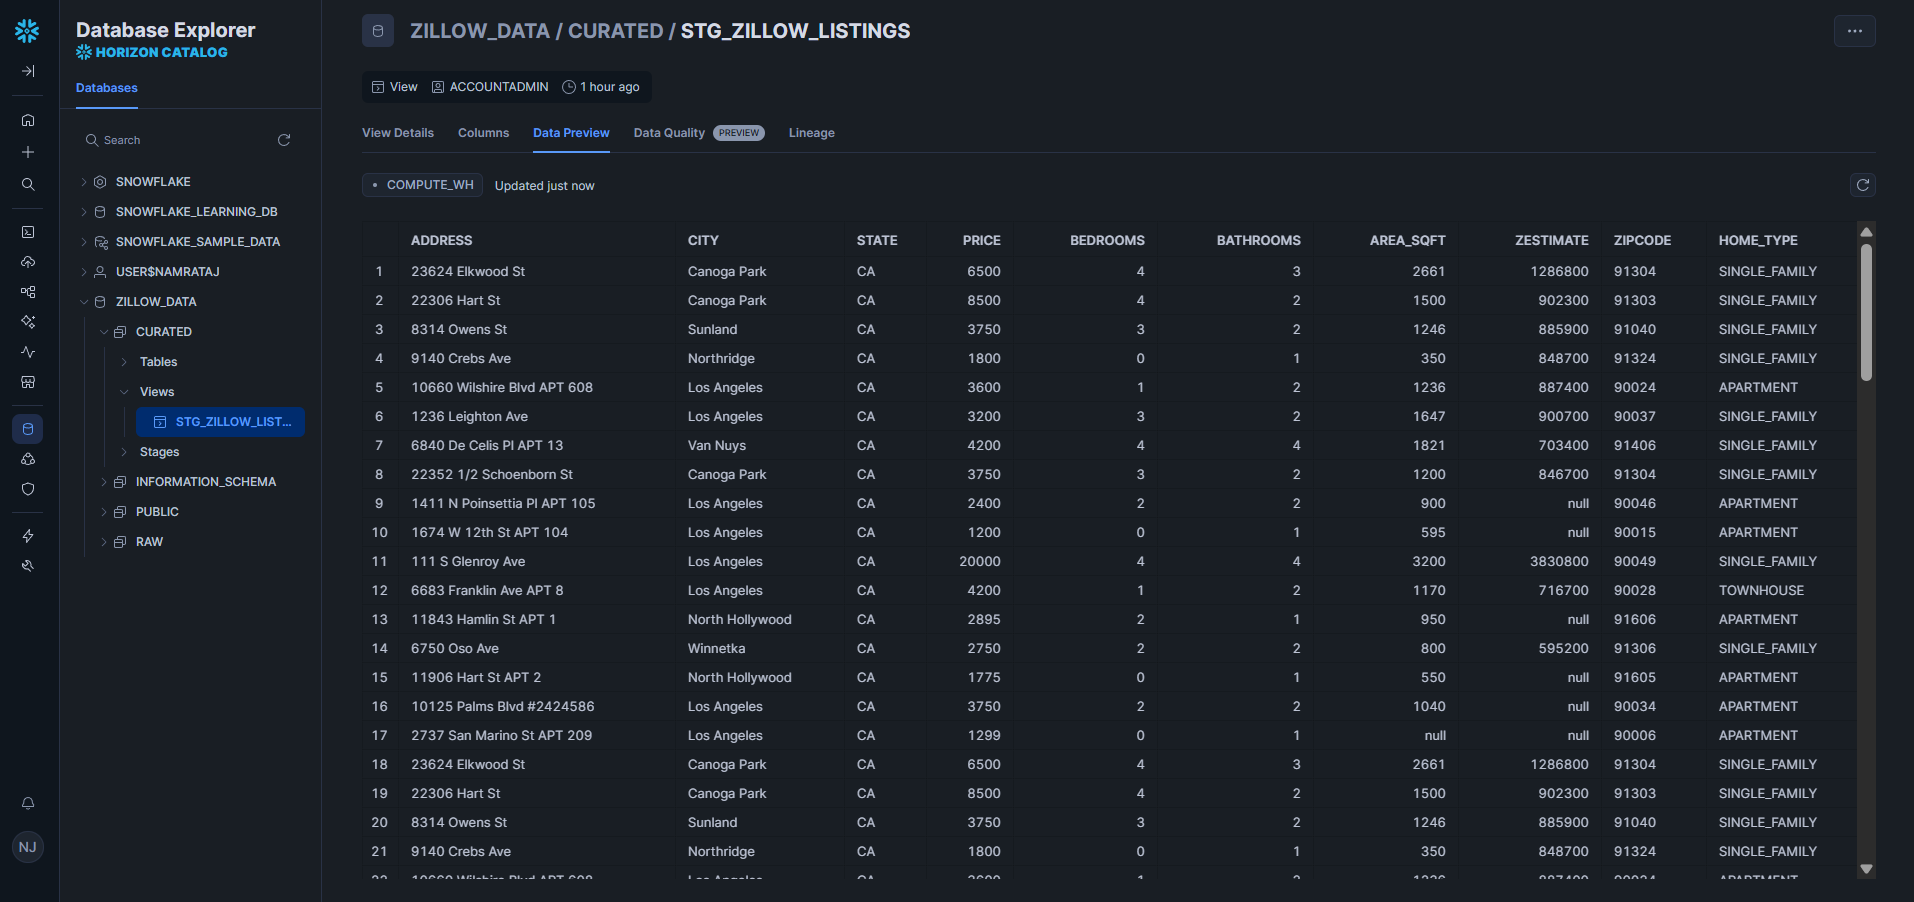
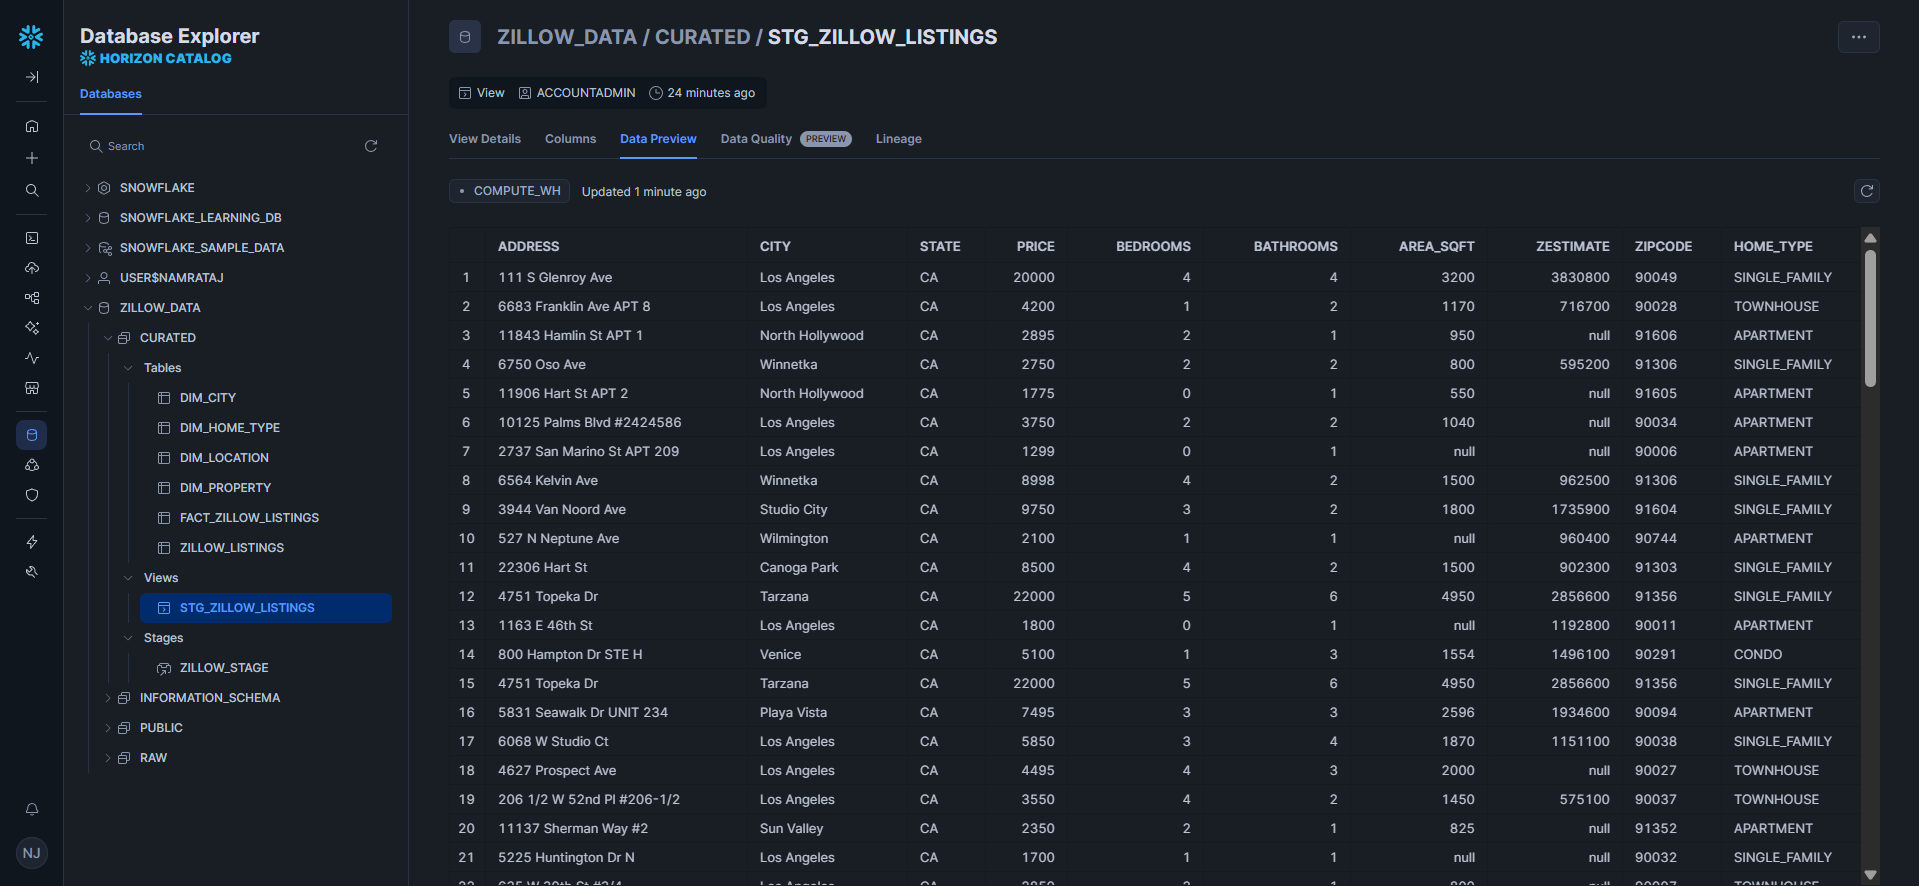
Readme updated

diff --git a/README.md b/README.md
@@ -54,20 +54,22 @@ This project builds a production-grade **data engineering pipeline** that ingest
 |----------------------|-----------------|
 | ![Glue Job Success](screenshots/glue_job_success.png) | ![CloudWatch Logs](screenshots/cloudwatch_log_output.png) |
 
-| AWS Glue Job Success | CloudWatch Logs |
+| AWS Glue Job Success | Step Function Success |
 |----------------------|-----------------|
 | ![CloudWatch Exceution log](screenshots/cloudwatch_glue_logs.png) | ![Step Function Success](screenshots/step_function_success.png) |
-
-# 📸 Results
 
 | Snowflake Curated View | dbt test Success |
 |-------------------------|-----------------|
 | ![Snowflake Curated View](screenshots/snowflake_curated_view.png) | ![dbt test Success](screenshots/dbt_tests_results.png) |
 
+| dbt Lineage grahp |
+|-------------------------|
+| ![dbt Lineage grahp](screenshots/dbt_lineage_graph.png) |
+
 **Additional Artifacts:**
 - `s3://zillow-raw-data-3010/` → Raw JSON dumps  
 - `s3://zillow-processed-data-3010/` → Cleaned, partitioned Parquet files (`city`, `status`, `ingestion_date`)  
-- `snowflake_curated_view.png`: Shows final `STG_ZILLOW_LISTINGS` view in Snowflake with structured Zillow data.
+- `snowflake_curated_view.png`: Shows final `STG_ZILLOW_LISTINGS` view in Snowflake with dims and fact tables.
 - `dbt_test_results.png`: Documented realistic dbt test failures to showcase data quality checks.
 
 ---
@@ -80,7 +82,7 @@ This project builds a production-grade **data engineering pipeline** that ingest
 ## 🧠 Learning Outcomes
 - Integrate APIs into AWS data pipelines  
 - Build automated ETL + orchestration flows  
-- Model data in Redshift with dbt  
+- Model data in Snowflake with dbt  
 - Automate & monitor pipelines professionally
 
 ---
